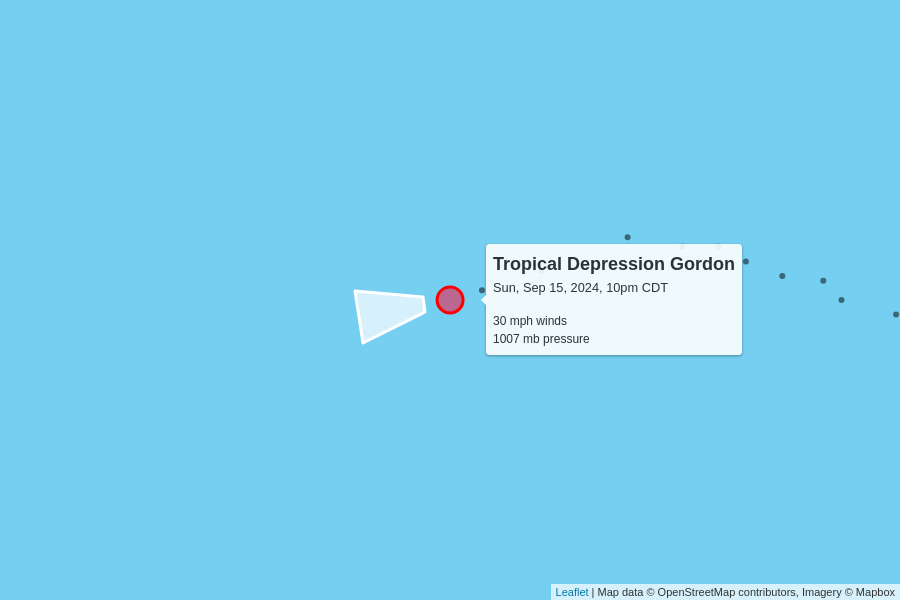
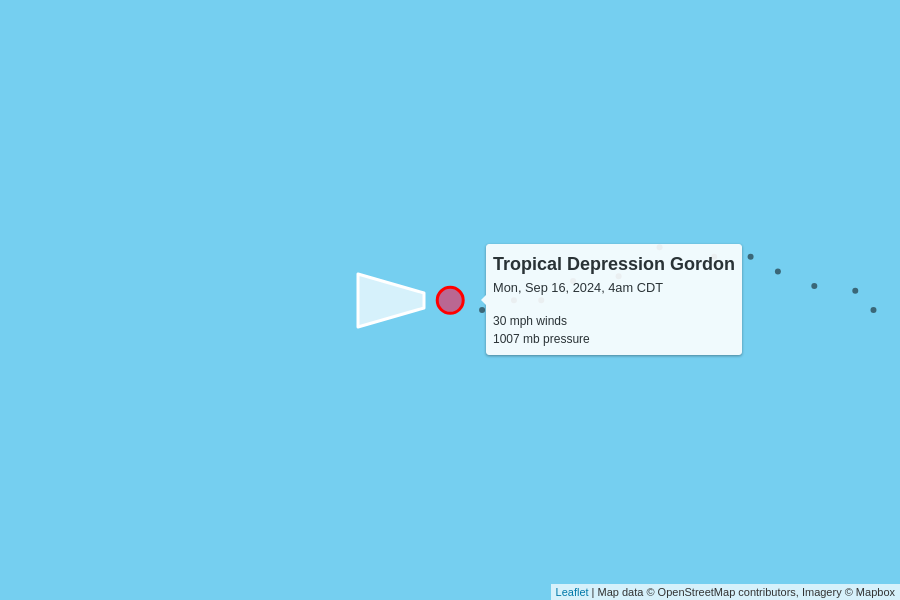
automatic update

diff --git a/docs/index.html b/docs/index.html
@@ -103,8 +103,8 @@
       <tr>
         <td colspan="6" class="storm category-0" >
           <h2>
-            Potential Tropical Cyclone Eight
-            <p class="updated">last updated <span data-time>2024-09-16T06:00:00.000Z</span></p>
+            Tropical Depression Gordon
+            <p class="updated">last updated <span data-time>2024-09-16T09:00:00.000Z</span></p>
           </h2>
         </td>
       </tr>
@@ -119,21 +119,21 @@
       </tr>
       <tr>
         <td class="spacer"></td>
-        <td>45 mph<br>0 mph since last update</td>
-        <td>1005 mb<br>-1 mb since last update</td>
+        <td>30 mph<br>0 mph since last update</td>
+        <td>1007 mb<br>0 mb since last update</td>
         <td>
-          3 mph to the northwest
+          8 mph to the west
           <br/>
-          <span style="display: inline-block; font-size: 1.5em; transform: rotate(325deg);">↑</span>
+          <span style="display: inline-block; font-size: 1.5em; transform: rotate(270deg);">↑</span>
         </td>
-        <td><a href="https://raw.githubusercontent.com/mgwalker/atlantic-hurricanes/main/data/csv/AL082024.csv">AL082024.csv</a></td>
-        <td><a href="https://www.nhc.noaa.gov/archive/2024/EIGHT.shtml?">NHC advisories</a></td>
+        <td><a href="https://raw.githubusercontent.com/mgwalker/atlantic-hurricanes/main/data/csv/AL072024.csv">AL072024.csv</a></td>
+        <td><a href="https://www.nhc.noaa.gov/archive/2024/GORDON.shtml?">NHC advisories</a></td>
       </tr>
-      <tr id="storm_AL082024" >
+      <tr id="storm_AL072024" >
         <td class="spacer">
         <td colspan="5">
           <figure>
-            <img src="AL082024.png">
+            <img src="AL072024.png">
             <figcaption>
               Map data &copy; <a href="https://www.openstreetmap.org/copyright">OpenStreetMap</a> contributors,
               Imagery &copy; <a href="https://www.mapbox.com/">Mapbox</a> |
@@ -147,8 +147,8 @@
       <tr>
         <td colspan="6" class="storm category-0" >
           <h2>
-            Tropical Depression Gordon
-            <p class="updated">last updated <span data-time>2024-09-16T03:00:00.000Z</span></p>
+            Potential Tropical Cyclone Eight
+            <p class="updated">last updated <span data-time>2024-09-16T09:00:00.000Z</span></p>
           </h2>
         </td>
       </tr>
@@ -163,21 +163,21 @@
       </tr>
       <tr>
         <td class="spacer"></td>
-        <td>30 mph<br>-5 mph since last update</td>
-        <td>1007 mb<br>0 mb since last update</td>
+        <td>50 mph<br>+5 mph since last update</td>
+        <td>1006 mb<br>+1 mb since last update</td>
         <td>
-          7 mph to the west
+          3 mph to the northwest
           <br/>
-          <span style="display: inline-block; font-size: 1.5em; transform: rotate(260deg);">↑</span>
+          <span style="display: inline-block; font-size: 1.5em; transform: rotate(325deg);">↑</span>
         </td>
-        <td><a href="https://raw.githubusercontent.com/mgwalker/atlantic-hurricanes/main/data/csv/AL072024.csv">AL072024.csv</a></td>
-        <td><a href="https://www.nhc.noaa.gov/archive/2024/GORDON.shtml?">NHC advisories</a></td>
+        <td><a href="https://raw.githubusercontent.com/mgwalker/atlantic-hurricanes/main/data/csv/AL082024.csv">AL082024.csv</a></td>
+        <td><a href="https://www.nhc.noaa.gov/archive/2024/EIGHT.shtml?">NHC advisories</a></td>
       </tr>
-      <tr id="storm_AL072024" >
+      <tr id="storm_AL082024" >
         <td class="spacer">
         <td colspan="5">
           <figure>
-            <img src="AL072024.png">
+            <img src="AL082024.png">
             <figcaption>
               Map data &copy; <a href="https://www.openstreetmap.org/copyright">OpenStreetMap</a> contributors,
               Imagery &copy; <a href="https://www.mapbox.com/">Mapbox</a> |
